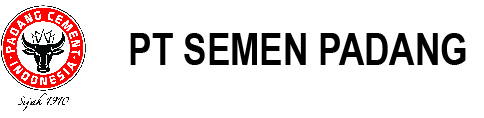
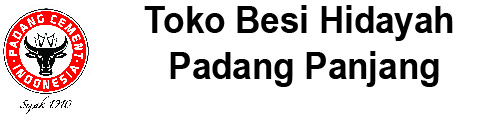
reviton for change name from semen padang to tokobesi hidayah padang panjang

Changed region(s): [[0.2479, 0.0254, 0.9607, 0.7119], [0.0, 0.0508, 0.186, 0.9407]]

diff --git a/application/controllers/Admin.php b/application/controllers/Admin.php
@@ -326,17 +326,17 @@ class Admin extends CI_Controller
         $pdf->AddPage();
         //seting jenis font yang di gunakan
         $pdf->SetFont('Arial', 'B', 16);
-        $pdf->Cell(20, 40, $pdf->image(base_url() . 'asset/img/logo_semen_padang_blur.jpg', 115, 40, 120), 0, 0, 'C');
+        $pdf->Cell(20, 40, $pdf->image(base_url() . 'asset/img/logo_blur.jpg', 115, 40, 120), 0, 0, 'C');
         //mencetak setting
-        $pdf->Cell(20, 7, $pdf->image(base_url() . 'asset/img/logo_semen_padang.jpg', $pdf->GetX(), $pdf->GetY(), 20), 0, 0, 'C');
+        $pdf->Cell(20, 7, $pdf->image(base_url() . 'asset/img/logo.jpg', $pdf->GetX(), $pdf->GetY(), 20), 0, 0, 'C');
 		$pdf->Cell(240, 6, $this->config->item("distributor"), 0, 1, 'C');
         $pdf->SetFont('Arial', 'B', 15);
         //mencetak setting
         $pdf->Cell(320, 6, 'DATA BARANG YANG TERDAFTAR PADA SISTEM', 0, 1, 'C');
         $pdf->SetFont('Arial', '', 12);
         $pdf->Cell(320, 5, 'Bukit Tinggi, Provinsi Sumatera Sumatra Barat', 0, 1, 'C');
-        $pdf->Cell(320, 5, 'Telp. 0752-82077, Fax.0752-82803; e-mail; cs@semenpadang.com', 0, 1, 'C');
-        $pdf->Cell(320, 5, 'webesite: www.semenpadang.co.id', 0, 1, 'C');
+        $pdf->Cell(320, 5, 'Telp. 0752-82077, Fax.0752-82803; e-mail; cs@TokoBesiHidayahPadangPanjang.com', 0, 1, 'C');
+        $pdf->Cell(320, 5, 'webesite: www.TokoBesiHidayahPadangPanjang.co.id', 0, 1, 'C');
         $pdf->Cell(340, 1, '', ':', 0, 1, 'C');
         $pdf->Cell(300, 5, '', 0, 1, 'C');
         //Membri spasi kEBawah
@@ -414,17 +414,17 @@ class Admin extends CI_Controller
         $pdf->AddPage();
         //seting jenis font yang di gunakan
         $pdf->SetFont('Arial', 'B', 16);
-        $pdf->Cell(20, 40, $pdf->image(base_url() . 'asset/img/logo_semen_padang_blur.jpg', 115, 40, 120), 0, 0, 'C');
+        $pdf->Cell(20, 40, $pdf->image(base_url() . 'asset/img/logo__blur.jpg', 115, 40, 120), 0, 0, 'C');
         //mencetak setting
-        $pdf->Cell(20, 7, $pdf->image(base_url() . 'asset/img/logo_semen_padang.jpg', $pdf->GetX(), $pdf->GetY(), 20), 0, 0, 'C');
+        $pdf->Cell(20, 7, $pdf->image(base_url() . 'asset/img/logo_.jpg', $pdf->GetX(), $pdf->GetY(), 20), 0, 0, 'C');
 		$pdf->Cell(240, 6, $this->config->item("distributor"), 0, 1, 'C');
         $pdf->SetFont('Arial', 'B', 15);
         //mencetak setting
         $pdf->Cell(320, 6, 'DATA BARANG YANG TERDAFTAR PADA SISTEM', 0, 1, 'C');
         $pdf->SetFont('Arial', '', 12);
         $pdf->Cell(320, 5, 'Bukit Tinggi, Provinsi Sumatera Sumatra Barat', 0, 1, 'C');
-        $pdf->Cell(320, 5, 'Telp. 0752-82077, Fax.0752-82803; e-mail; cs@semenpadang.com', 0, 1, 'C');
-        $pdf->Cell(320, 5, 'webesite: www.semenpadang.co.id', 0, 1, 'C');
+        $pdf->Cell(320, 5, 'Telp. 0752-82077, Fax.0752-82803; e-mail; cs@TokoBesiHidayahPadangPanjang.com', 0, 1, 'C');
+        $pdf->Cell(320, 5, 'webesite: www.TokoBesiHidayahPadangPanjang.co.id', 0, 1, 'C');
         $pdf->Cell(340, 1, '', ':', 0, 1, 'C');
         $pdf->Cell(300, 5, '', 0, 1, 'C');
         //Membri spasi kEBawah
@@ -523,17 +523,17 @@ class Admin extends CI_Controller
         $pdf->AddPage();
         //seting jenis font yang di gunakan
         $pdf->SetFont('Arial', 'B', 16);
-        $pdf->Cell(20, 40, $pdf->image(base_url() . 'asset/img/logo_semen_padang_blur.jpg', 115, 40, 120), 0, 0, 'C');
+        $pdf->Cell(20, 40, $pdf->image(base_url() . 'asset/img/logo__blur.jpg', 115, 40, 120), 0, 0, 'C');
         //mencetak setting
-        $pdf->Cell(20, 7, $pdf->image(base_url() . 'asset/img/logo_semen_padang.jpg', $pdf->GetX(), $pdf->GetY(), 20), 0, 0, 'C');
+        $pdf->Cell(20, 7, $pdf->image(base_url() . 'asset/img/logo_.jpg', $pdf->GetX(), $pdf->GetY(), 20), 0, 0, 'C');
         $pdf->Cell(240, 6, $this->config->item("distributor"), 0, 1, 'C');
         $pdf->SetFont('Arial', 'B', 15);
         //mencetak setting
         $pdf->Cell(320, 6, 'DATA BARANG YANG TERDAFTAR PADA SISTEM', 0, 1, 'C');
         $pdf->SetFont('Arial', '', 12);
         $pdf->Cell(320, 5, 'Bukit Tinggi, Provinsi Sumatera Sumatra Barat', 0, 1, 'C');
-        $pdf->Cell(320, 5, 'Telp. 0752-82077, Fax.0752-82803; e-mail; cs@semenpadang.com', 0, 1, 'C');
-        $pdf->Cell(320, 5, 'webesite: www.semenpadang.co.id', 0, 1, 'C');
+        $pdf->Cell(320, 5, 'Telp. 0752-82077, Fax.0752-82803; e-mail; cs@TokoBesiHidayahPadangPanjang.com', 0, 1, 'C');
+        $pdf->Cell(320, 5, 'webesite: www.TokoBesiHidayahPadangPanjang.co.id', 0, 1, 'C');
         $pdf->Cell(340, 1, '', ':', 0, 1, 'C');
         $pdf->Cell(300, 5, '', 0, 1, 'C');
         //Membri spasi kEBawah

diff --git a/application/views/beranda.php b/application/views/beranda.php
@@ -62,9 +62,9 @@
 					<div class="row single-slide align-items-center d-flex">
 						<div class="col-lg-5 col-md-6">
 							<div class="banner-content">
-								<h1 style="color: white;">Semen Padang</h1>
-								<h1>Semen Padang</h1>
-								<p>PT Semen Padang (Persero) was established on March 18, 1910 firstly named NV Nederlandsch Indische Portland Cement Maatschappij (NV NIPCM). The Company emerged to be the first cement plant in Indonesia. On July 05, 1958, the Company was  nationalized by the Government of the  Republic of Indonesia. During this period, the Company started to develop itself by increasing the capacity of Indarung I Plant to 330.000 tons/year. Next, the company developed the capacity of its production by erecting Indarung II, III and IV Plants which, unlike that of Indarung I, apply dry process.  In 1995, the Government shifted its ownership in PT Semen Padang  to PT Semen Gresik (Persero) Tbk and in the same year approved the development of Indarung V. Presently, PT Semen Indonesia (Persero) Tbk. owns 99.99% of the Company’s shares. The rest 0.01% is owned by Koperasi Keluarga Besar Semen Padang. The majority share of PT Semen Indonesia  (Persero) Tbk. in the Company (51.01%) is owned by the Government of the Republic of Indonesia, while the rest 48.09% owned by public</p>
+								<h1 style="color: white;">toko besi</h1>
+								<h2>Toko Besi Hidayah Padang Panjang</h2>
+								<p>PToko Besi Hidayah Padang Panjang merupakan Distributor besi terbesar di Sumbar. Toko besi hidayah berdiri sejak tahun 2004 . Toko besi hidayah beralamat profesor dr hamka no 6 kelurahan bukik surungan kecamatan tanjung alam siap bersaing dengan usaha usaha sejenis lain nya di area kota padang panjang. Selain menjadi distributor besi terbesar. Toko Besi Hidayah Padang Panjang juga mendistribusikan semen ke Toko Bangunan kecil dalam jumlah yang cukup banyak juga.</p>
 								<div class="add-bag d-flex align-items-center">
 									<!-- <a class="add-btn" href=""><span class="lnr lnr-cross"></span></a> -->
 									<!-- <span class="add-text text-uppercase">Add to Bag</span> -->

diff --git a/application/views/admin/content.php b/application/views/admin/content.php
@@ -104,9 +104,8 @@
 						<br>
 						<br>
 						<br>
-							 <h1>PT Semen Padang,</h1>
-							 
-							 <p>PT Semen Padang (Persero) was established on March 18, 1910 firstly named NV Nederlandsch Indische Portland Cement Maatschappij (NV NIPCM). The Company emerged to be the first cement plant in Indonesia. On July 05, 1958, the Company was  nationalized by the Government of the  Republic of Indonesia. During this period, the Company started to develop itself by increasing the capacity of Indarung I Plant to 330.000 tons/year. Next, the company developed the capacity of its production by erecting Indarung II, III and IV Plants which, unlike that of Indarung I, apply dry process.  In 1995, the Government shifted its ownership in PT Semen Padang  to PT Semen Gresik (Persero) Tbk and in the same year approved the development of Indarung V. Presently, PT Semen Indonesia (Persero) Tbk. owns 99.99% of the Company’s shares. The rest 0.01% is owned by Koperasi Keluarga Besar Semen Padang. The majority share of PT Semen Indonesia  (Persero) Tbk. in the Company (51.01%) is owned by the Government of the Republic of Indonesia, while the rest 48.09% owned by public</p>
+						<h1> 	</h1>
+								<p>PToko Besi Hidayah Padang Panjang merupakan Distributor besi terbesar di Sumbar. Toko besi hidayah berdiri sejak tahun 2004 . Toko besi hidayah beralamat profesor dr hamka no 6 kelurahan bukik surungan kecamatan tanjung alam siap bersaing dengan usaha usaha sejenis lain nya di area kota padang panjang. Selain menjadi distributor besi terbesar. Toko Besi Hidayah Padang Panjang juga mendistribusikan semen ke Toko Bangunan kecil dalam jumlah yang cukup banyak juga.</p>. owns 99.99% of the Company’s shares. The rest 0.01% is owned by Koperasi Keluarga Besar Semen Padang. The majority share of PT Semen Indonesia  (Persero) Tbk. in the Company (51.01%) is owned by the Government of the Republic of Indonesia, while the rest 48.09% owned by public</p>
 
  						</div>
  					</div>

diff --git a/application/views/admin/header.php b/application/views/admin/header.php
@@ -8,7 +8,7 @@
   <meta content="width=device-width, initial-scale=1, maximum-scale=1, user-scalable=no" name="viewport">
   
 	
-	<link rel="shortcut icon" href="<?=base_url();?>asset/img/logo_semen_padang.png">
+	<link rel="shortcut icon" href="<?=base_url();?>asset/img/logo.png">
 	<!-- Bootstrap 3.3.7 -->
   <link rel="stylesheet" href="<?php echo base_url();?>asset/bootstrap/dist/css/bootstrap.min.css">
   <!-- Font Awesome -->
@@ -48,7 +48,7 @@
       <!-- mini logo for sidebar mini 50x50 pixels -->
       <span class="logo-mini"><img  class="gambar1"src="<?php echo base_url();?>gambar/logoapp.jpg" alt=""></span>
       <!-- logo for regular state and mobile devices -->
-      <b>Semen Padang</b></span>
+      <b><?=$this->config->item("aplication_name")?></b></span>
   
     </a>
     <!-- Header Navbar: style can be found in header.less -->

diff --git a/application/views/pelanggan/header.php b/application/views/pelanggan/header.php
@@ -7,7 +7,7 @@
   <!-- Tell the browser to be responsive to screen width -->
   <meta content="width=device-width, initial-scale=1, maximum-scale=1, user-scalable=no" name="viewport">
   
-	<link rel="shortcut icon" href="<?=base_url();?>asset/img/logo_semen_padang.png">
+	<link rel="shortcut icon" href="<?=base_url();?>asset/img/logo.png">
 	<!-- Bootstrap 3.3.7 -->
   <link rel="stylesheet" href="<?php echo base_url();?>asset/bootstrap/dist/css/bootstrap.min.css">
   <!-- Font Awesome -->

diff --git a/application/config/config.php b/application/config/config.php
@@ -25,7 +25,7 @@ $root .= str_replace(basename($_SERVER['SCRIPT_NAME']),"",$_SERVER['SCRIPT_NAME'
 | a PHP script and you can easily do that on your own.
 |
 */
-$config['aplication_name']="Semen Padang";
+$config['aplication_name']="Toko Besi Hidayah Padang Panjang";
 $config['distributor']="PT HIDAYAH TRIJAYA SUKSES";
 $config['base_url'] = $root;
 
